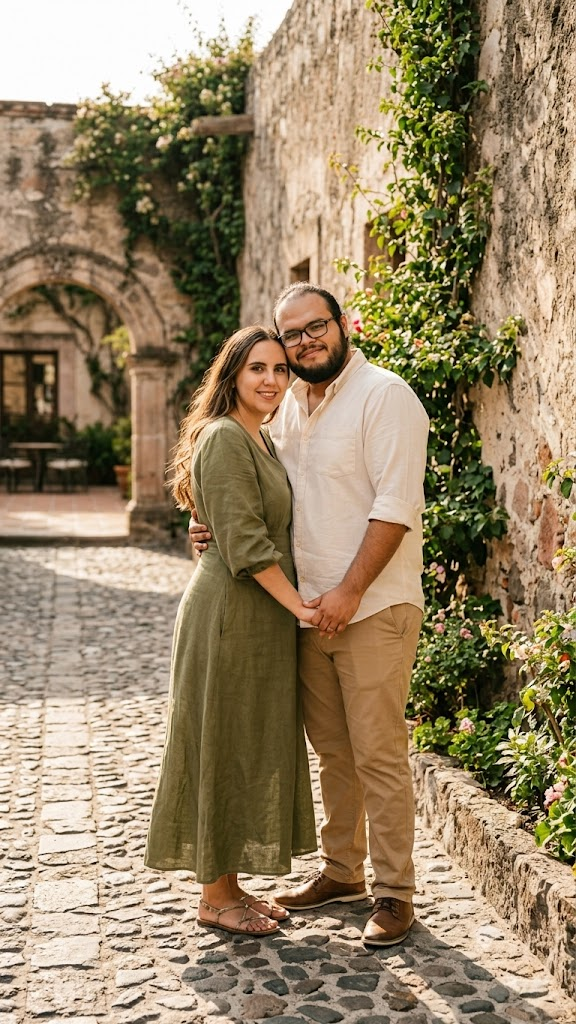
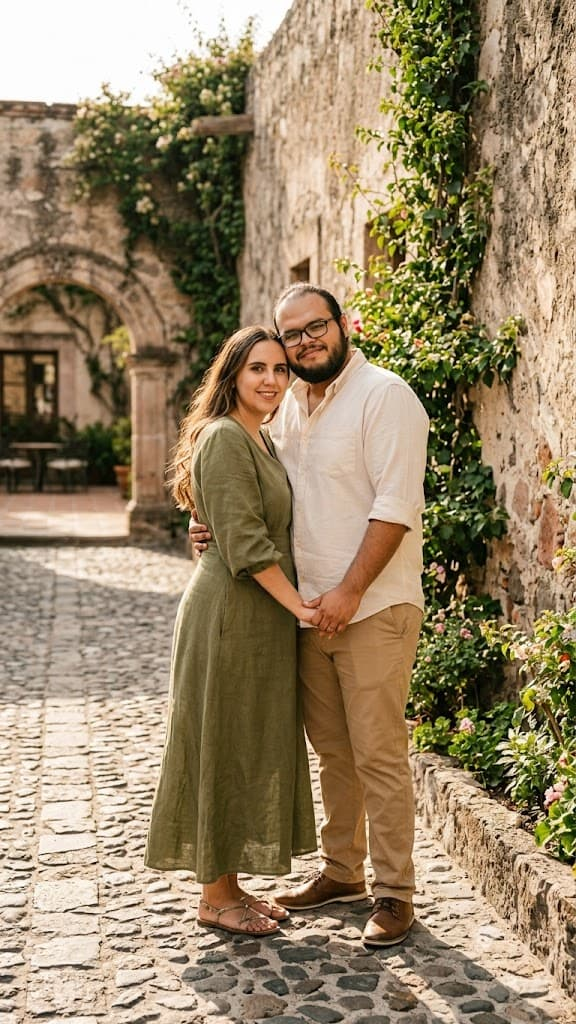
Agrega carrousel, ubicaciones y mesa de regalos

diff --git a/src/App.css b/src/App.css
@@ -3,6 +3,7 @@
   --eucalyptus-gray: #7A8B7E;
   --moss-light: #9FB36E;
   --cream-soft: #F6F8D9;
+  --black: #000000;
 }
 
 /* =========================================
@@ -367,5 +368,205 @@
   
   .carousel-btn.right { 
     right: 10px; 
+  }
+}
+/* =========================================
+   SECCIÓN DE UBICACIONES
+   ========================================= */
+.location-section {
+  padding: 60px 20px;
+  max-width: 800px;
+  margin: 0 auto;
+  text-align: center;
+  position: relative;
+  z-index: 2;
+}
+
+.location-title {
+  font-family: 'Playfair Display', serif;
+  font-size: 2.5rem;
+  margin-bottom: 40px;
+  color: var(--olive-deep);
+}
+
+/* Contenedor flexible que alinea las dos tarjetas */
+.location-container {
+  display: flex;
+  justify-content: center;
+  gap: 30px;
+  flex-wrap: wrap; /* En celulares se acomodará una debajo de la otra automáticamente */
+}
+
+/* Tarjetas individuales */
+.location-card {
+  
+  /* border-radius: 12px;
+  padding: 30px 20px;
+  flex: 1; */
+  min-width: 260px;
+  max-width: 350px;
+  /* box-shadow: 0 4px 15px rgba(0, 0, 0, 0.08); */
+  display: flex;
+  flex-direction: column;
+  align-items: center;
+  justify-content: space-between;
+  /* transition: transform 0.3s ease, box-shadow 0.3s ease; */
+} 
+
+/* .location-card:hover {
+  transform: translateY(-5px);
+  box-shadow: 0 8px 20px rgba(0, 0, 0, 0.15);
+} */
+
+.location-card .location-icon {
+  font-size: 2.5rem;
+  margin-bottom: 10px;
+}
+
+.location-name {
+  font-size: 1.4rem;
+  color: var(--olive-deep);
+  margin: 5px 0;
+  font-weight: bold;
+}
+
+.location-place {
+  font-size: 1.1rem;
+  color: #333;
+  margin: 5px 0;
+  font-weight: 500;
+}
+
+.location-time {
+  font-size: 1rem;
+  color: var(--eucalyptus-gray);
+  margin-bottom: 25px;
+  font-weight: bold;
+}
+
+/* Botón de Google Maps */
+.location-btn {
+  /* display: inline-block; */
+  /* background-color: var(--olive-deep); */
+  color: var(--black);
+  text-decoration: none;
+  padding: 12px 24px;
+  border-radius: 25px;
+  font-size: 0.95rem;
+  font-weight: bold;
+  letter-spacing: 0.5px;
+  transition: background-color 0.3s ease, transform 0.2s ease;
+  box-shadow: 0 4px 10px rgba(82, 99, 67, 0.3);
+  width: 80%;
+  box-sizing: border-box;
+}
+
+.location-btn:hover, .location-btn:active {
+  background-color: #3d4a31; /* Un tono un poco más oscuro al presionar */
+  transform: scale(1.03);
+  color: #fff;
+}
+
+/* Ajuste específico para pantallas muy pequeñas */
+@media screen and (max-width: 600px) {
+  .location-card {
+    width: 100%;
+    max-width: 100%;
+  }
+  
+  .location-btn {
+    width: 60%; 
+  }
+}
+/* =========================================
+   SECCIÓN DE MESA DE REGALOS
+   ========================================= */
+.registry-section {
+  padding: 60px 20px;
+  max-width: 700px;
+  margin: 0 auto;
+  text-align: center;
+  position: relative;
+  z-index: 2;
+}
+
+.registry-title {
+  font-family: 'Playfair Display', serif;
+  font-size: 2.5rem;
+  margin-bottom: 20px;
+  color: var(--olive-deep);
+}
+
+.registry-description {
+  font-size: 1.15rem;
+  line-height: 1.6;
+  color: #333;
+  margin-bottom: 40px;
+  padding: 0 10px;
+}
+
+/* Contenedor de botones */
+.registry-buttons-container {
+  display: flex;
+  justify-content: center;
+  gap: 20px;
+  flex-wrap: wrap;
+}
+
+/* Estilo base compartido por ambos botones */
+.registry-btn {
+  display: inline-flex;
+  align-items: center;
+  justify-content: center;
+  gap: 10px;
+  padding: 15px 35px;
+  border-radius: 30px;
+  font-size: 1.1rem;
+  font-weight: bold;
+  text-decoration: none;
+  transition: transform 0.2s ease, box-shadow 0.3s ease, background-color 0.3s ease;
+  box-shadow: 0 4px 12px rgba(0, 0, 0, 0.1);
+  min-width: 200px;
+}
+
+/* Estilo para el botón de Liverpool (Verde Olivo Sólido) */
+.liverpool-btn {
+  background-color: var(--olive-deep);
+  color: var(--cream-soft);
+  border: 2px solid var(--olive-deep);
+}
+
+.liverpool-btn:hover, .liverpool-btn:active {
+  background-color: #3d4a31;
+  color: #fff;
+  transform: translateY(-3px);
+  box-shadow: 0 6px 16px rgba(82, 99, 67, 0.3);
+}
+
+/* Estilo para el botón de Amazon (Fondo Crema con Borde Musgo) */
+.amazon-btn {
+  background-color: var(--cream-soft);
+  color: var(--olive-deep);
+  border: 2px solid var(--moss-light);
+}
+
+.amazon-btn:hover, .amazon-btn:active {
+  background-color: var(--moss-light);
+  color: #fff;
+  transform: translateY(-3px);
+  box-shadow: 0 6px 16px rgba(159, 179, 110, 0.3);
+}
+
+/* Ajuste exclusivo para Celulares */
+@media screen and (max-width: 600px) {
+  .registry-buttons-container {
+    flex-direction: column;
+    align-items: center;
+    gap: 15px;
+  }
+
+  .registry-btn {
+    width: 60%; 
+    box-sizing: border-box;
   }
 }

diff --git a/src/App.jsx b/src/App.jsx
@@ -219,6 +219,83 @@ function App() {
         </div>
       </section>
 
+      {/* 3. SECCIÓN DE UBICACIONES */}
+      {/* ========================================= */}
+      <section className="location-section">
+        <h2 className="location-title">Ubicación</h2>
+
+        <div className="location-container">
+          
+          {/* Tarjeta 1: Ceremonia */}
+          <div className="location-card">
+            <div className="location-icon">⛪</div>
+            <h3 className="location-name">Ceremonia Religiosa</h3>
+            <p className="location-place">Inmaculado Corazón de María</p>
+            <p className="location-time">6:00 PM</p>
+            
+            <a 
+              href="https://maps.app.goo.gl/gFzykGd56CGFWShG9" 
+              target="_blank" 
+              rel="noopener noreferrer" 
+              className="location-btn"
+            >
+              📍 Ver en Google Maps
+            </a>
+          </div>
+
+          {/* Tarjeta 2: Recepción */}
+          <div className="location-card">
+            <div className="location-icon">🥂</div>
+            <h3 className="location-name">Recepción</h3>
+            <p className="location-place">Quinta Aloutte</p>
+            <p className="location-time">8:00 PM</p>
+            
+            <a 
+              href="https://maps.app.goo.gl/ofYjns59H9y5LBuT9" 
+              target="_blank" 
+              rel="noopener noreferrer" 
+              className="location-btn"
+            >
+              📍 Ver en Google Maps
+            </a>
+          </div>
+
+        </div>
+      </section>
+      {/* 4. SECCIÓN DE MESA DE REGALOS */}
+      {/* ========================================= */}
+      <section className="registry-section">
+        <h2 className="registry-title">Mesa de Regalos</h2>
+        
+        <p className="registry-description">
+          El regalo más valioso para nosotros es tu presencia y cariño en este día tan importante. 
+          Pero si deseas tener un detalle para ayudarnos a construir nuestro nuevo hogar, 
+          ponemos a tu disposición nuestras mesas de regalos:
+        </p>
+
+        <div className="registry-buttons-container">
+          {/* Botón Liverpool */}
+          <a 
+            href="https://www.liverpool.com.mx" /* Pon aquí el link exacto de tu mesa de Liverpool */
+            target="_blank" 
+            rel="noopener noreferrer" 
+            className="registry-btn liverpool-btn"
+          >
+            🛍️ Liverpool
+          </a>
+
+          {/* Botón Google */}
+          <a 
+            href="https://www.amazon.com" /* Pon aquí el link de tu lista o documento de Google */
+            target="_blank" 
+            rel="noopener noreferrer" 
+            className="registry-btn amazon-btn"
+          >
+            🎁 amazon
+          </a>
+        </div>
+      </section>
+
     </div>
   );
 }